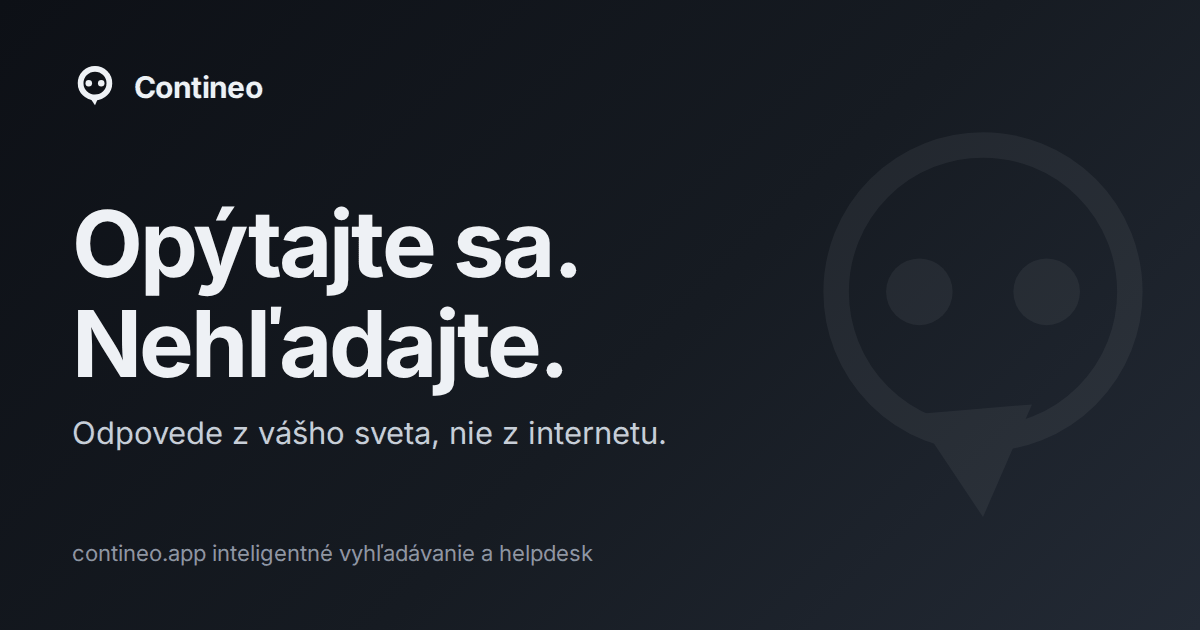
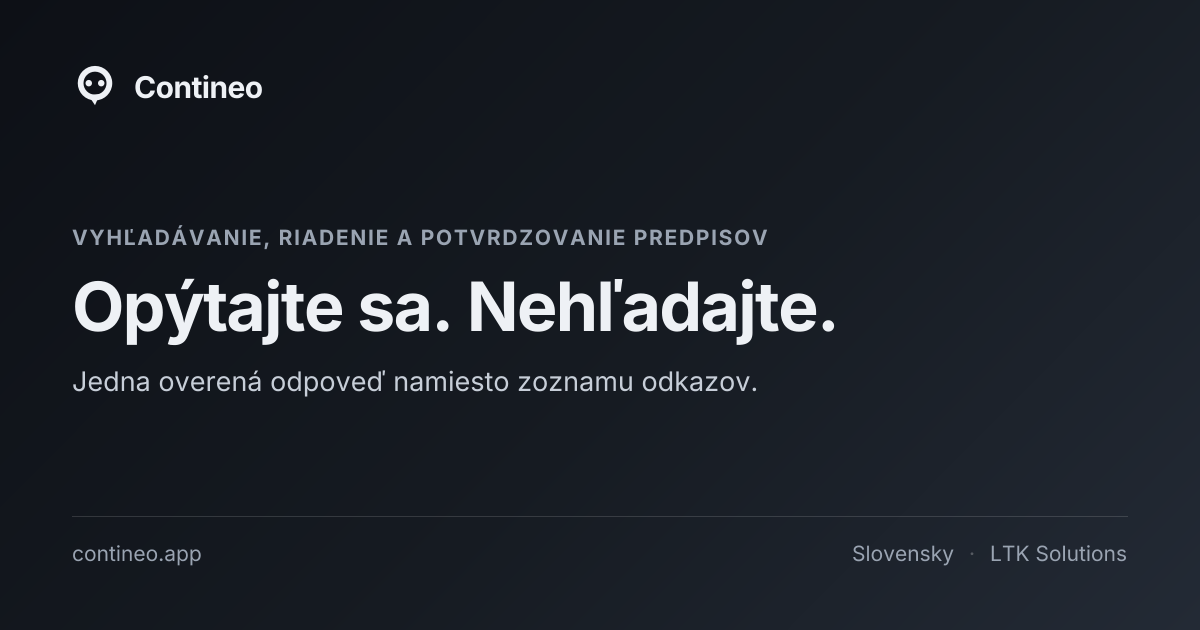
Web: podtitul „Jedna overená odpoveď namiesto zoznamu odkazov."
Nadpis „Opýtajte sa. Nehľadajte." ostáva, podtitul mení Ján 28. 10.
Úvod webu (sk, cs, en), popis pre sociálne siete v metadátach, dynamické
obrázky pre sociálne siete (berú podtitul zo slovníka) a tri statické PNG
(opengraph-image, twitter-image, og.png), ktoré mali starý podtitul
zapečený aj so starým sloganom „inteligentné vyhľadávanie a helpdesk" —
pregenerované z dynamického obrázka. Hlas značky
v docs/brand-messaging.md s poznámkou o zmene.

diff --git a/web/lib/dictionaries.js b/web/lib/dictionaries.js
@@ -25,7 +25,7 @@ export const dictionaries = {
     hero: {
       badge: "Vyhľadávanie, riadenie a potvrdzovanie predpisov",
       title: "Opýtajte sa. Nehľadajte.",
-      claim: "Odpovede z vášho sveta, nie z internetu.",
+      claim: "Jedna overená odpoveď namiesto zoznamu odkazov.",
       subtitle:
         "Contineo nájde odpoveď vo vašom vlastnom obsahu — v normách, smerniciach a interných predpisoch, ktoré do neho nahráte. Žiadne listovanie v zložkách, žiadne dohady z internetu. Len overená odpoveď odtiaľ, kde naozaj žije. A predpis, ktorý musia ľudia poznať, rozpošle, pripomenie a doloží, kto sa s ním kedy oboznámil.",
       ctaPrimary: "Vyskúšať vyhľadávanie",
@@ -926,7 +926,7 @@ export const dictionaries = {
     hero: {
       badge: "Vyhledávání, řízení a potvrzování předpisů",
       title: "Zeptejte se. Nehledejte.",
-      claim: "Odpovědi z vašeho světa, ne z internetu.",
+      claim: "Jedna ověřená odpověď místo seznamu odkazů.",
       subtitle:
         "Contineo najde odpověď ve vašem vlastním obsahu — v normách, směrnicích a interních předpisech, které do něj nahrajete. Žádné listování ve složkách, žádné dohady z internetu. Jen ověřená odpověď odtud, kde skutečně žije. A předpis, který musí lidé znát, rozešle, připomene a doloží, kdo se s ním kdy seznámil.",
       ctaPrimary: "Vyzkoušet vyhledávání",
@@ -1827,7 +1827,7 @@ export const dictionaries = {
     hero: {
       badge: "Search, governance and acknowledgement of regulations",
       title: "Ask. Don't search.",
-      claim: "Answers from your world, not the internet.",
+      claim: "One verified answer instead of a list of links.",
       subtitle:
         "Contineo finds the answer in your own content — in the regulations, policies and internal guidelines you upload into it. No digging through folders, no guessing from the internet. Just a verified answer from where it actually lives. And a regulation people must know, it sends out, follows up on and proves who read it and when.",
       ctaPrimary: "Try the search",

diff --git a/web/app/layout.js b/web/app/layout.js
@@ -32,14 +32,14 @@ export const metadata = {
     url: "https://contineo.app",
     title: "Contineo — vyhľadávanie a potvrdzovanie predpisov",
     description:
-      "Opýtajte sa. Nehľadajte. Odpovede z vášho sveta, nie z internetu.",
+      "Opýtajte sa. Nehľadajte. Jedna overená odpoveď namiesto zoznamu odkazov.",
     locale: "sk_SK",
   },
   twitter: {
     card: "summary_large_image",
     title: "Contineo — vyhľadávanie a potvrdzovanie predpisov",
     description:
-      "Opýtajte sa. Nehľadajte. Odpovede z vášho sveta, nie z internetu.",
+      "Opýtajte sa. Nehľadajte. Jedna overená odpoveď namiesto zoznamu odkazov.",
   },
   robots: {
     index: true,

diff --git a/docs/brand-messaging.md b/docs/brand-messaging.md
@@ -11,7 +11,10 @@ Jadro posolstva: **odpoveď príde z vlastného obsahu firmy, nie z internetu.**
 Opýtajte sa. Nehľadajte.
 
 **Claim (krátka, opakovateľná veta)**
-Odpovede z vášho sveta, nie z internetu.
+Jedna overená odpoveď namiesto zoznamu odkazov.
+
+> Zmena Jána 28. 10. 2026; dovtedy „Odpovede z vášho sveta, nie z internetu.“
+> Česky: Jedna ověřená odpověď místo seznamu odkazů.
 
 **Hero podtitul**
 Contineo nájde odpoveď vo vašom vlastnom obsahu — weby, projekty, normy aj interné predpisy. Žiadne listovanie v zložkách, žiadne dohady z internetu. Len overená odpoveď odtiaľ, kde naozaj žije.
@@ -32,7 +35,7 @@ Roky sme sa učili hľadať — vypisovať kľúčové slová, otvárať desať 
 Ask. Don't search.
 
 **Claim**
-Answers from your world, not the internet.
+One verified answer instead of a list of links.
 
 **Hero subtitle**
 Contineo finds the answer in your own content — websites, projects, regulations and internal guidelines. No digging through folders, no guessing from the internet. Just a verified answer from where it actually lives.

diff --git a/CHANGELOG.md b/CHANGELOG.md
@@ -4,6 +4,16 @@ Všetky podstatné zmeny projektu Contineo. Formát vychádza z [Keep a Changelo
 
 ## [Unreleased]
 
+### Web contineo.app: nový podtitul „Jedna overená odpoveď namiesto zoznamu odkazov." (2026-10-28)
+
+Nadpis „Opýtajte sa. Nehľadajte." ostáva; podtitul pod ním je po novom
+**„Jedna overená odpoveď namiesto zoznamu odkazov."** (česky „Jedna
+ověřená odpověď místo seznamu odkazů.", anglicky „One verified answer
+instead of a list of links."). Zmenený je úvod webu, popis pre sociálne
+siete v metadátach, obrázky pre sociálne siete (dynamické aj tri statické
+PNG, ktoré mali starý podtitul zapečený) a hlas značky
+v `docs/brand-messaging.md`.
+
 ### Widget kanála ISSF Helpdesk nahrádza formulár Pomoc v ISSF (2026-10-27, ADR-042, #463–#471)
 
 Rozhodol Ján 27. 10. 2026 (D275–D285). Cudzí systém vloží skript raz;
